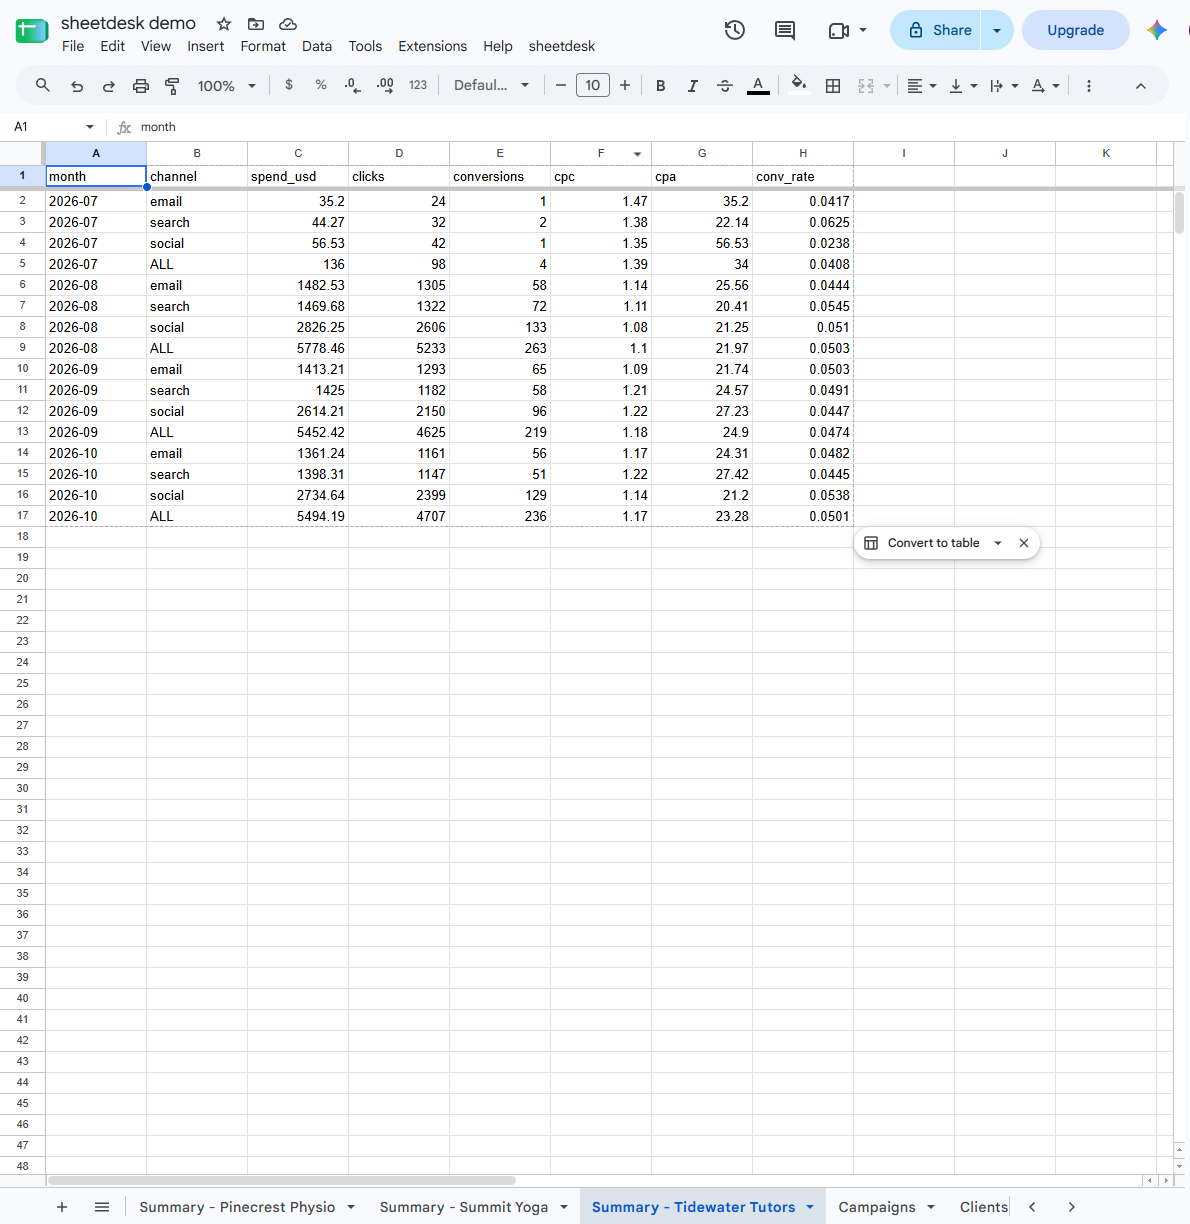
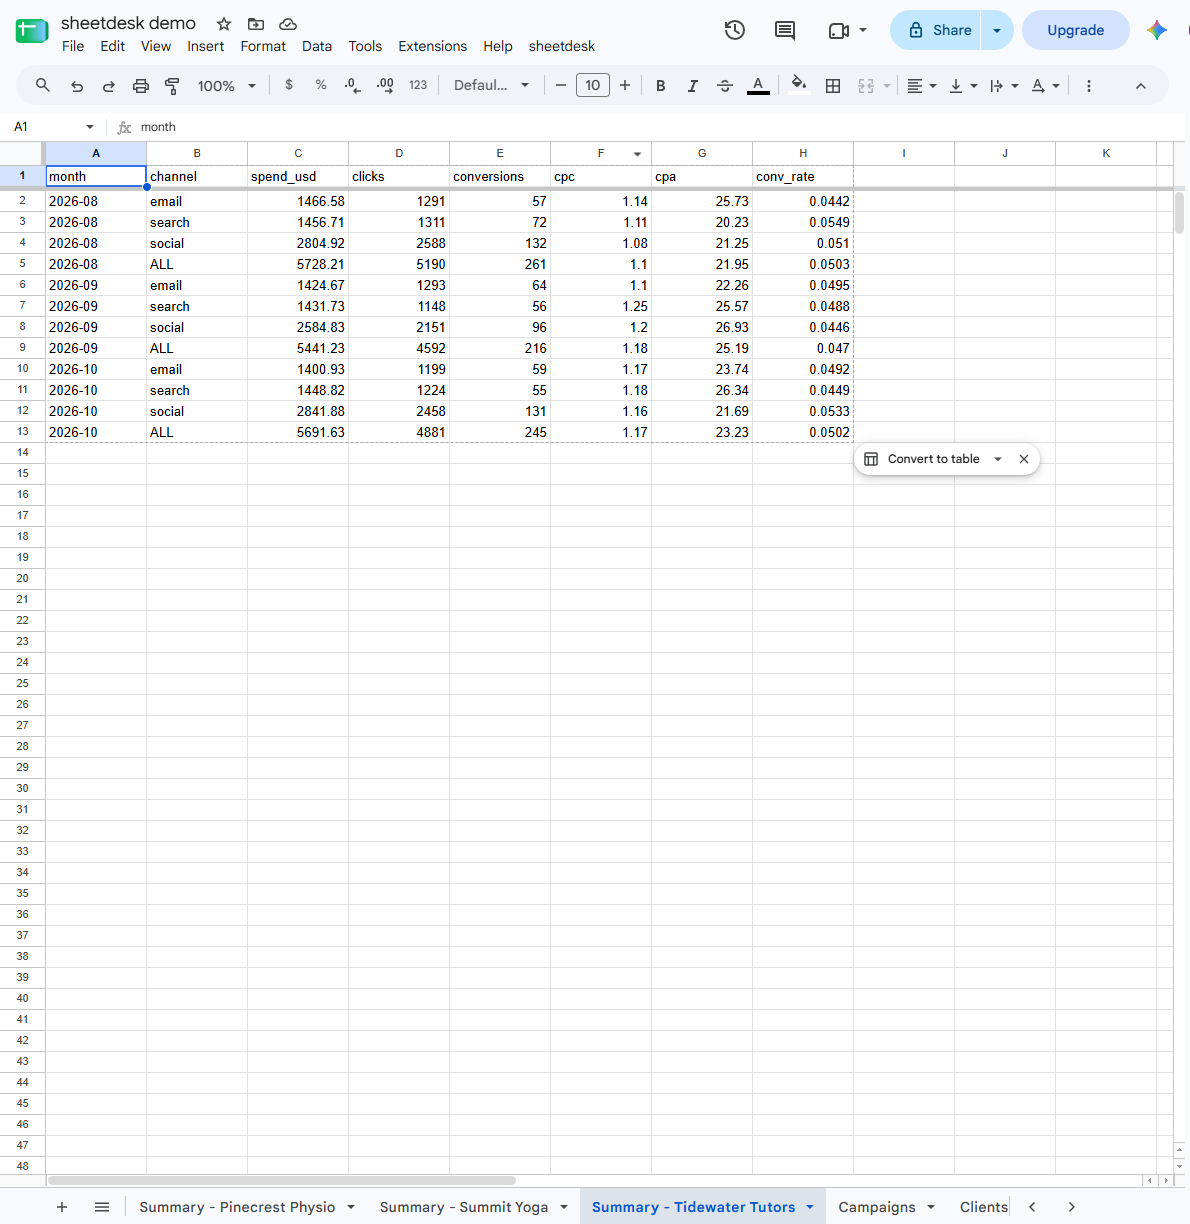
Pin the Sheet time zone in Set up after the live run showed dates a day early, correct the live run write-up and the README limits

diff --git a/src/Menu.js b/src/Menu.js
@@ -97,11 +97,19 @@ function daysAgoIso_(n) {
 
 /**
  * Creates the data sheets with their headers and, if missing, a random
- * webhook secret. Safe to run again.
- * @return {{sheets: string[], secretCreated: boolean}}
+ * webhook secret, and pins the Sheet's time zone to the script's. Safe to run
+ * again.
+ *
+ * The pin matters: on 2026-11-10 a Sheet made by clasp held the zone Etc/GMT
+ * in the Sheets API while getSpreadsheetTimeZone() answered America/Los_Angeles,
+ * so every date was formatted a day early. Setting the zone here makes the two
+ * agree and keeps the month and day keys the code builds from date cells right.
+ * @return {{sheets: string[], secretCreated: boolean, timeZone: string}}
  */
 function setUp() {
   const ss = spreadsheet_();
+  const zone = Session.getScriptTimeZone();
+  if (ss.getSpreadsheetTimeZone() !== zone) ss.setSpreadsheetTimeZone(zone);
   const names = ['CAMPAIGNS', 'CLIENTS', 'LEADS', 'RATES'];
   names.forEach(function (k) { getOrCreateSheet_(ss, SD.SHEETS[k], SD.HEADERS[k]); });
   const props = PropertiesService.getScriptProperties();
@@ -110,7 +118,7 @@ function setUp() {
     props.setProperty(SD.PROPS.WEBHOOK_SECRET, Utilities.getUuid() + Utilities.getUuid());
     secretCreated = true;
   }
-  return { sheets: names.map(function (k) { return SD.SHEETS[k]; }), secretCreated: secretCreated };
+  return { sheets: names.map(function (k) { return SD.SHEETS[k]; }), secretCreated: secretCreated, timeZone: zone };
 }
 
 /**

diff --git a/scripts/mutation.js b/scripts/mutation.js
@@ -28,6 +28,7 @@ const PARALLEL = 4;
 /** [id, file, text to find (exactly once), replacement, what it breaks] */
 const M = [
   // ---- webhook
+  ['setup-pins-time-zone', 'Menu.js', "  if (ss.getSpreadsheetTimeZone() !== zone) ss.setSpreadsheetTimeZone(zone);\n", '', 'Set up leaves the Sheet time zone as it was, so dates can be read a day early'],
   ['secret-check', 'Webhook.js', "  if (!safeEquals_(typeof given === 'string' ? given : '', expected)) return webhookError_('unauthorized');\n", '', 'the shared secret is not checked on POST'],
   ['secret-fail-closed', 'Webhook.js', "  if (!expected) return webhookError_('not_configured');\n  const given", '  const given', 'POST works when no secret is configured'],
   ['secret-get-check', 'Webhook.js', "  if (!safeEquals_(typeof p.secret === 'string' ? p.secret : '', expected)) return webhookError_('unauthorized');\n", '', 'the dashboard and status views need no secret'],

diff --git a/test/menu.test.js b/test/menu.test.js
@@ -162,6 +162,14 @@ test('setUp creates the data sheets and one secret, and keeps the secret on a re
   assert.equal(p.prop('WEBHOOK_SECRET'), secret);
 });
 
+test('setUp pins the Sheet time zone to the script time zone so date cells are read on the right day', () => {
+  const p = loadProject();
+  p.ss.setSpreadsheetTimeZone('Etc/GMT');
+  const r = p.plain(p.call('setUp'));
+  assert.equal(r.timeZone, 'America/Chicago');
+  assert.equal(p.ss._tz, 'America/Chicago');
+});
+
 test('menuSetUp tells the user a secret exists without printing it', () => {
   const p = loadProject();
   p.call('menuSetUp');

diff --git a/README.md b/README.md
@@ -26,7 +26,6 @@ A small agency repeats the same chores every month. Add up each client's ad spen
 
 A made-up agency, Fernwood Digital, runs on it: nine invented clients, 2,024 generated campaign rows and 300 generated leads.
 
-<!-- READY-TO-USE LINE: one plain sentence. Replace it with the result of the first live deployment. -->
 **Ready to use for:** trying on a copy of a Sheet. On 2026-11-10 the menu, Set up, the summaries, the sidebar report with its PDF and the web app ran on a real Google account ([what ran](docs/live-run.md)). Month close, the form trigger and the bulk job did not. See [Limits](#limits).
 
 ## Why it exists
@@ -74,7 +73,7 @@ Apps Script loads every file in `src/` into one global scope, so the modules cal
 
 ## Deploy with clasp
 
-You need a Google account, Node 24 and `clasp`, Google's command line tool for Apps Script. Nothing here has been deployed yet, so these are the documented steps, not a recorded run.
+You need a Google account, Node 24 and `clasp`, Google's command line tool for Apps Script. The first part of these steps (clasp create, push and a deployment) was run on 2026-11-10 and is recorded in [docs/live-run.md](docs/live-run.md).
 
 1. Switch on the Apps Script API for your account at [script.google.com/home/usersettings](https://script.google.com/home/usersettings). clasp cannot push without it.
 2. Install clasp and sign in. The sign in opens a browser.
@@ -106,7 +105,7 @@ You need a Google account, Node 24 and `clasp`, Google's command line tool for A
    - Google shows "Google hasn't verified this app", because the script has not been submitted for Google's review. You deployed it yourself, so choose Advanced, then Go to the project, then Allow.
    - The permissions are one line each. Spreadsheets: read and write the Sheet. Documents: build the report from a template Doc. Drive: save the PDF and trash the working copy. Send mail: email the report. Forms: create the intake form. External requests: call the ad platform and the rates API. Triggers: run the intake form and the bulk job. Menus and sidebars: show the menu and sidebar. Email address: find your address for "Send to me first". The table in [maintenance.md](docs/maintenance.md) says which call needs each one.
 
-7. Load the sample data. In the Sheet open the **Clients** tab, click cell A1, then File, Import, Upload, choose `fixtures/clients.csv`, set the import location to "Replace data at selected cell", untick the option that converts text to numbers, dates and formulas, and import. Do the same with `fixtures/campaigns.csv` on the **Campaigns** tab and `fixtures/rates.csv` on the **Rates** tab. `node scripts/seed.js` rewrites the fixtures. The leads file is not imported, because leads arrive through the webhook.
+7. Load the sample data. In the Sheet open the **Clients** tab, click cell A1, then File, Import, Upload, choose `fixtures/clients.csv`, set the import location to "Replace data at selected cell", leave the option that converts text to numbers and dates ticked (the code reads real dates), and import. Do the same with `fixtures/campaigns.csv` on the **Campaigns** tab and `fixtures/rates.csv` on the **Rates** tab. `node scripts/seed.js` rewrites the fixtures. The leads file is not imported, because leads arrive through the webhook.
 8. Make the intake form. In the Sheet choose Extensions, then Apps Script to open the editor. Pick `installIntakeTrigger` in the function list at the top and press Run. Accept the permission screen. When it finishes, the execution log at the bottom shows the form link. Open that link to see the form.
 9. Deploy the web app and copy its URL.
 
@@ -149,12 +148,12 @@ The 50,000 row job has no menu item. In the editor pick `startBulkNormalize` and
 
 ```bash
 npm install
-npm test            # 227 tests
+npm test            # 228 tests
 npm run lint        # ESLint, zero warnings allowed
-npm run mutation    # 142 mutants, about 15 minutes
+npm run mutation    # 143 mutants, about 15 minutes
 ```
 
-The tests run against a local fake of Google's services. `npm test` passes, `npm run lint` is clean, and all 142 mutants are caught. [docs/testing.md](docs/testing.md) explains what a mutant is and what the tests check.
+The tests run against a local fake of Google's services. `npm test` passes, `npm run lint` is clean, and all 143 mutants are caught. [docs/testing.md](docs/testing.md) explains what a mutant is and what the tests check.
 
 ## Limits
 
@@ -162,9 +161,10 @@ The tests run against a local fake of Google's services. `npm test` passes, `npm
 - The PDF in the fake is text with a PDF header. Page layout, fonts and the real Doc to PDF conversion are untested.
 - Apps Script quotas apply. One execution runs at most 6 minutes. A consumer account has 90 minutes of trigger runtime a day, 100 email recipients a day, 20,000 URL fetch calls a day and 20 triggers per script (Workspace accounts have more of the first three). The scale job keeps inside 6 minutes with a budget check, but its chunk size and budget are not tuned to real speeds.
 - The Frankfurter reply shape was checked by hand with a few `curl` requests on 2026-11-10. The script has not called it. The ad platform is invented, and real platforms need OAuth, which is not built.
+- The report PDF is plain text and a table, with no agency name, logo or chart. The `monthly_budget` column of the Clients tab is stored for the agency's own use and no report reads it yet, so the sample budgets do not line up with the sample spend.
 - The web app has no rate limit and one secret for every caller. A secret in a URL can end up in logs.
 - The sidebar did render in Google's iframe and `google.script.run` worked on 2026-11-10. The dialog and the web app dashboard page were not looked at in a browser there.
-- The CI workflow (`.github/workflows/ci.yml`) runs `npm ci`, `npm run lint` and `npm test` on `ubuntu-latest` with Node 24, for pushes to `main` and for pull requests. It has not run yet, because the repo is not pushed. The mutation run is not in CI because it takes minutes.
+- The CI workflow (`.github/workflows/ci.yml`) runs `npm ci`, `npm run lint` and `npm test` on `ubuntu-latest` with Node 24, for pushes to `main` and for pull requests. It runs green on GitHub. The mutation run is not in CI because it takes minutes.
 
 ## Stack
 

diff --git a/docs/live-run.md b/docs/live-run.md
@@ -1,15 +1,15 @@
 # A run on a real Google account
 
-On 2026-11-10 the code in `src/` was deployed to a real Google account and driven by hand. This page says what ran, what came back and what did not run. The fake in `test/fake/` is still the main proof. This is the check that the fake and Google agree on the parts below.
+On 2026-11-10 the code in `src/` was deployed to a real Google account and driven by hand. This page says what ran, what came back, what it found and what did not run. The fake in `test/fake/` is still the main proof. This is the check that the fake and Google agree on the parts below.
 
 ## What ran
 
 1. `clasp create --type sheets` made a new Sheet and a bound script. `clasp push` sent all 15 files, and Google accepted the manifest in `src/appsscript.json`. clasp was 3.4.1. `clasp create-deployment` made a web app deployment.
 2. Opening the Sheet ran `onOpen`: the **sheetdesk** menu appeared with Open desk, Close a month, Rebuild summaries, Data and Set up.
-3. **Set up** asked for permission. The "Google hasn't verified this app" screen came first, as the README says, and the nine scopes were granted on the account that owns the script. After that it answered "Sheets are ready." and created the Campaigns, Clients, Leads and Rates tabs and the three script properties `REPORT_FOLDER_ID`, `REPORT_TEMPLATE_ID` and `WEBHOOK_SECRET`.
+3. **Set up** asked for permission. The "Google hasn't verified this app" screen came first, as the README says, and the nine scopes were granted on the account that owns the script. After that it answered "Sheets are ready." and created the Campaigns, Clients, Leads and Rates tabs and the `WEBHOOK_SECRET` script property. The report folder and template ids are made by the first report.
 4. The four fixture files were loaded into the tabs through the Sheets API: 9 clients, 2,024 campaign rows, 300 leads and 142 rate rows.
-5. **Rebuild summaries** built one Summary tab per client from those rows ([picture](live-run/summary-tab.png)). The totals row of a month is the sum of its channel rows.
-6. **Open desk** showed the sidebar in Google's iframe, filled with the clients and months from the Sheet. **Run report** with "Send to me first" ticked answered "Report ready: copperline-plumbing-2026-10.pdf. Email: sent to you, not to the client." ([picture](live-run/sidebar-run-report.png)). A Report Log row was written. The email arrived with the PDF attached, and the PDF is one page and its figures add up: spend 13,362.80, which is 5,160.76 plus 4,295.95 plus 3,906.09, 11,657 clicks and 610 conversions ([the file](live-run/copperline-plumbing-2026-10.pdf), [page](live-run/report-pdf-page.png)). The layout is plain text and a table, as the page on summaries says.
+5. **Rebuild summaries** built one Summary tab per client from those rows ([picture](live-run/summary-tab.png)).
+6. **Open desk** showed the sidebar in Google's iframe, filled with the clients and months from the Sheet. **Run report** with "Send to me first" ticked answered "Report ready: copperline-plumbing-2026-10.pdf. Email: sent to you, not to the client." ([picture](live-run/sidebar-run-report.png)). A Report Log row was written and the email arrived with the PDF attached ([the file](live-run/copperline-plumbing-2026-10.pdf), [page](live-run/report-pdf-page.png)). The PDF figures were checked against `fixtures/campaigns.csv` with a separate script: October for Copperline Plumbing is 13,833.29 spend, 12,072 clicks and 634 conversions in both, and the Tidewater Tutors August email row in the Summary tab is 1,466.58, 1,291 and 57 in both. The PDF is one page of plain text and a table, with no agency name or logo.
 7. The web app answered from the deployed URL, with the redirect Google sends followed:
 
 | Call | Reply |
@@ -24,10 +24,14 @@ On 2026-11-10 the code in `src/` was deployed to a real Google account and drive
 
 Every reply was HTTP 200 with the answer in the JSON, as `docs/webhook.md` says.
 
+## What it found
+
+The first pass of the run produced summaries and a PDF that were a day out: a client whose data starts on 1 August showed a July block, and the October figures were October minus 1 October. The cause was not in the date code. The Sheet made by clasp held the time zone `Etc/GMT` in the Sheets API while `getSpreadsheetTimeZone()` answered `America/Los_Angeles`, so every date cell was formatted in the wrong zone. The fake could not show this because it has one zone.
+
+The fix is in `setUp()`: it sets the Sheet's time zone to the script's (`timeZone` in `src/appsscript.json`), with a test and a mutant. After Set up was run again and the data reloaded, the figures above matched the fixtures. The first, wrong pass is the reason this page checks the figures against the CSV and not only against themselves.
+
+A smaller finding: loading phone numbers that begin with a plus sign through the Sheets API with value conversion on turned them into `#ERROR!` cells, because Sheets read them as formulas. The Leads tab is filled by the webhook, which keeps such text as text (the `=1+1` call above), so the import steps do not touch it.
+
 ## What did not run
 
-Month close, the intake form trigger, the 50,000 row bulk job with its continuation trigger, the ad platform and exchange rate syncs, and a report to a client's own address. The run used one account, one Sheet and invented data. No quota was measured.
-
-## One thing it found
-
-Loading the leads through the Sheets API with value conversion on turned phone numbers that begin with `+` into `#ERROR!` cells, because Sheets read them as formulas. The README's import step now tells the person to untick the conversion option in the import dialog. The script's own writes were not affected: its guard keeps text that looks like a formula as text, which the `=1+1` call above shows on the real service.
+Month close, the intake form trigger, the 50,000 row bulk job with its continuation trigger, the ad platform and exchange rate syncs, and a report to a client's own address. The run used one account, one Sheet and sample data. No quota was measured. The dialog and the web app dashboard page were not looked at in a browser.

diff --git a/docs/testing.md b/docs/testing.md
@@ -6,16 +6,16 @@ Tests: `test/*.test.js`. Mutation harness: `scripts/mutation.js`. Fake: `test/fa
 
 ```bash
 npm install
-npm test            # 227 tests
+npm test            # 228 tests
 npm run lint        # ESLint, zero warnings allowed
-npm run mutation    # 142 mutants, about 15 minutes
+npm run mutation    # 143 mutants, about 15 minutes
 ```
 
 | Command | Result |
 |---|---|
-| `npm test` | 227 tests pass in about 9 seconds on Windows 11 with Node 24 |
+| `npm test` | 228 tests pass in about 9 seconds on Windows 11 with Node 24 |
 | `npm run lint` | 0 errors, 0 warnings |
-| `npm run mutation` | 142 mutants, 142 caught, 0 survived |
+| `npm run mutation` | 143 mutants, 143 caught, 0 survived |
 
 The tests do not touch Google. One run by hand on a live account is written up in [live-run.md](live-run.md). The tests prove the code against [a local fake of Google's services](fake-and-seed.md) that was written from Google's reference, so they are as accurate as that fake.
 
@@ -51,4 +51,4 @@ node scripts/mutation.js preview      # the mutants whose id contains "preview"
 
 - The fake can differ from Google's services in ways this repo cannot see. Where the reference is silent the fake is strict, so it may refuse something the real service accepts.
 - The mutants are guards that were chosen by hand. A guard nobody thought of has no mutant.
-- The CI workflow (`.github/workflows/ci.yml`) runs `npm ci`, `npm run lint` and `npm test` on `ubuntu-latest` with Node 24, for pushes to `main` and for pull requests. It has not run yet, because the repo is not pushed. The mutation run is not in CI because it takes minutes.
+- The CI workflow (`.github/workflows/ci.yml`) runs `npm ci`, `npm run lint` and `npm test` on `ubuntu-latest` with Node 24, for pushes to `main` and for pull requests. It runs green on GitHub. The mutation run is not in CI because it takes minutes.

diff --git a/docs/fake-and-seed.md b/docs/fake-and-seed.md
@@ -4,7 +4,7 @@ Source: `test/fake/gas.js`, `test/fake/services.js`, `test/helpers/load.js`, `sc
 
 ## The fake
 
-`test/fake/gas.js` is a local stand-in for SpreadsheetApp, DocumentApp, DriveApp, GmailApp, MailApp, FormApp, HtmlService, ContentService, UrlFetchApp, CacheService, PropertiesService, LockService, ScriptApp, Utilities, Logger and Session. It was written from Google's public Apps Script reference. It is not Google's code and has not been compared with a live account.
+`test/fake/gas.js` is a local stand-in for SpreadsheetApp, DocumentApp, DriveApp, GmailApp, MailApp, FormApp, HtmlService, ContentService, UrlFetchApp, CacheService, PropertiesService, LockService, ScriptApp, Utilities, Logger and Session. It was written from Google's public Apps Script reference. It is not Google's code. One run on a live account on 2026-11-10 compared it with Google on the menu, Set up, summaries, the sidebar report and the web app, and found one difference, a Sheet time zone that Apps Script reported wrongly ([live-run.md](live-run.md)).
 
 The loader (`test/helpers/load.js`) puts every file of `src/` into one `vm` context next to the fake, the same way Apps Script uses one global scope. It reads `src/appsscript.json`, so the fake refuses a service whose scope is missing from the manifest.
 

diff --git a/docs/summaries-and-pdfs.md b/docs/summaries-and-pdfs.md
@@ -41,7 +41,7 @@ Against the fake in `test/fake/gas.js`. The totals in the summary tabs are compa
 
 ## What it does NOT do
 
-- One report ran on a real Google account on 2026-11-10 and its PDF was read ([live-run.md](live-run.md)). Month close and the email to a client's own address have not. The PDF in the fake is text with a PDF header, not a rendered page, so page layout is untested.
+- One report ran on a real Google account on 2026-11-10 and its PDF was read ([live-run.md](live-run.md)). Month close and the email to a client's own address have not. The PDF in the fake is text with a PDF header. The real one was read on 2026-11-10: one page, plain text and a table, no agency name or logo.
 - It cannot keep the same Drive file id on a rerun. That needs the Drive advanced service.
 - A client name with a dollar sign cannot be used in a PDF. The reference does not say how `replaceText` reads `$` in the replacement, so the script refuses it.
 - No charts. The table is plain text cells.
